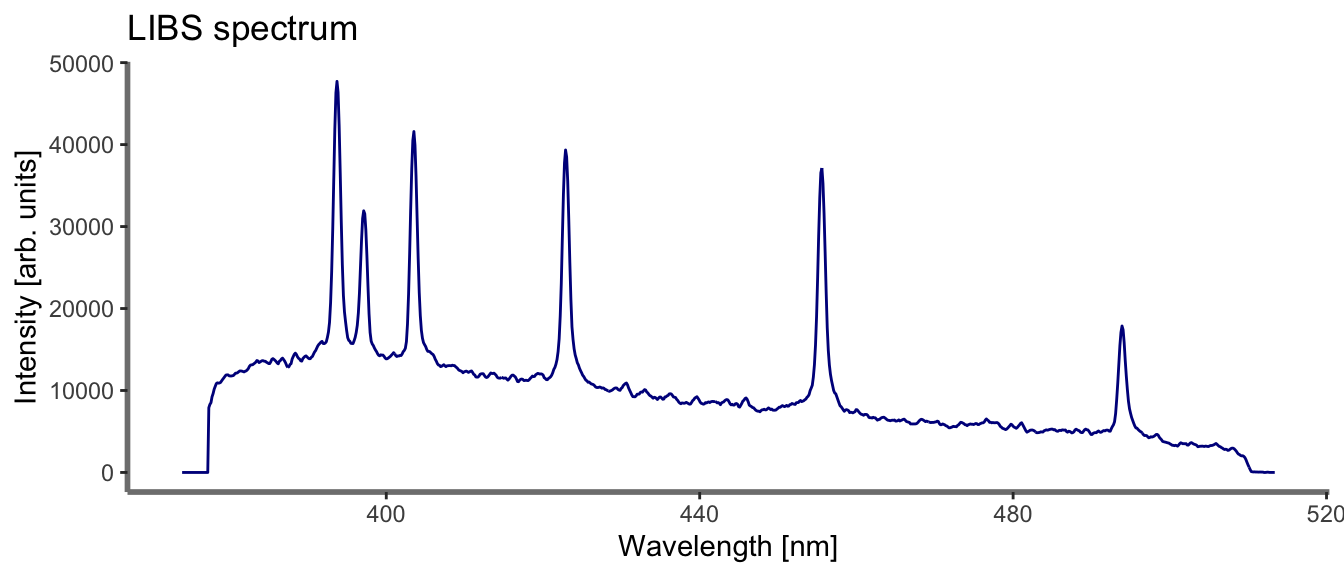
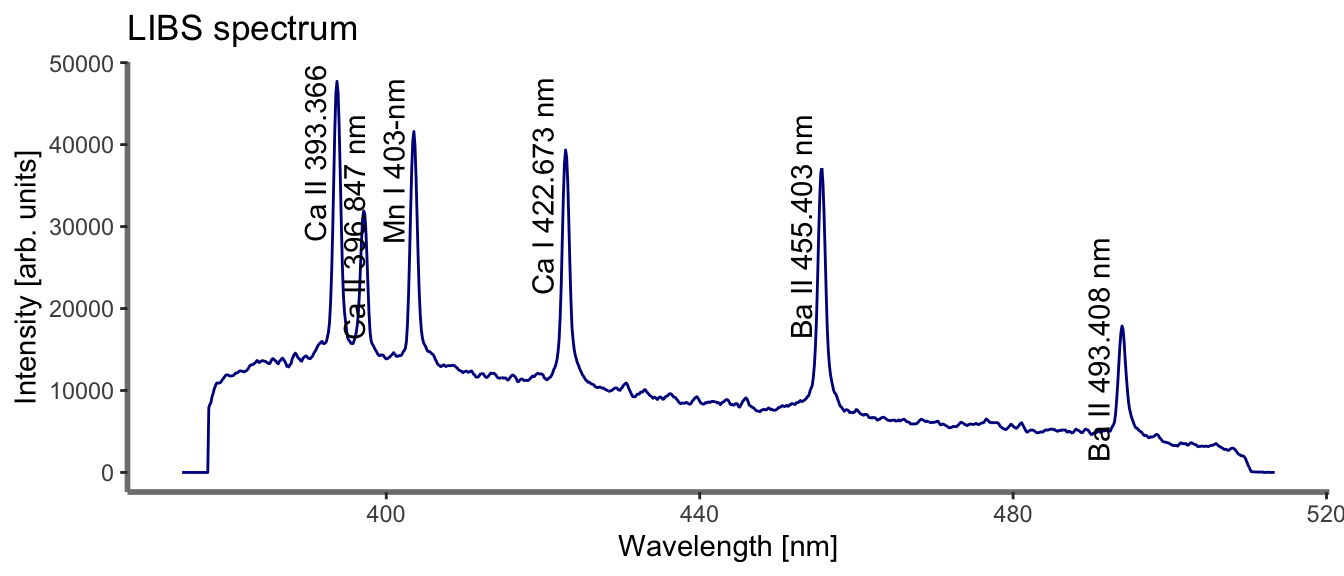
Updates

diff --git a/README.md b/README.md
@@ -53,7 +53,7 @@ library(patchwork)
 Prominent atomic and ionic emission lines of Mg, Ca, Ba and Mn were
 identified using the NIST atomic lines database. The spectra show
 emission lines from calcium, Ca II 393.366 nm, Ca II 396.847 nm and Ca I
-422.673 nm, unresolved manganese triplet, Mn I403.076 nm, Mn I 403.307
+422.673 nm, unresolved manganese triplet, Mn I 403.076 nm, Mn I 403.307
 nm and Mn I 403.449 nm, and barium ionic lines, Ba II 455.403 nm and Ba
 II 493.408nm.
 
@@ -66,7 +66,14 @@ plot1 <- plotSpec(Ca_Mn_spec)
 ```
 
 ``` r
-plot1 + ggtitle("LIBS spectrum")
+plot1 +
+  annotate("text", x = 391, y = 4.2e4, angle = 90, label = "Ca II 393.366 nm") +
+  annotate("text", x = 396, y = 3e4, angle = 90, label = "Ca II 396.847 nm") +
+  annotate("text", x = 401, y = 3.8e4, angle = 90, label = "Mn I 403-nm") +
+  annotate("text", x = 420, y = 3.5e4, angle = 90, label = "Ca I 422.673 nm") +
+  annotate("text", x = 453, y = 3e4, angle = 90, label = "Ba II 455.403 nm") +
+  annotate("text", x = 491, y = 1.5e4, angle = 90, label = "Ba II 493.408 nm") +
+  ggtitle("LIBS spectrum")
 ```
 
 <img src="man/figures/README-unnamed-chunk-7-1.png" width="90%" height="90%" />
